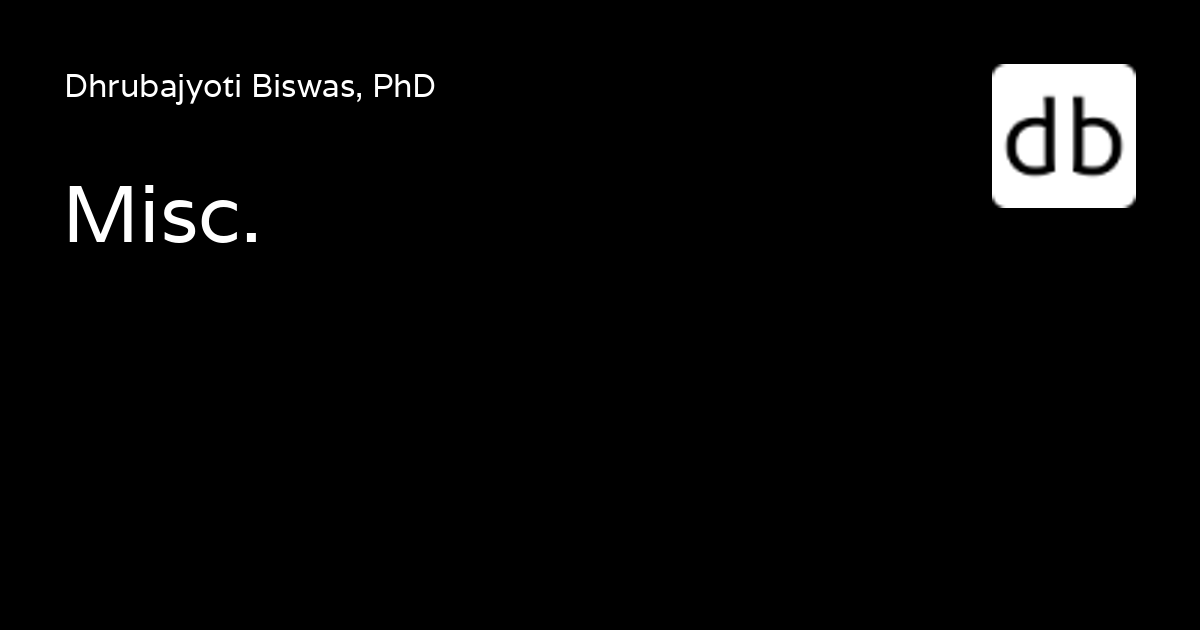
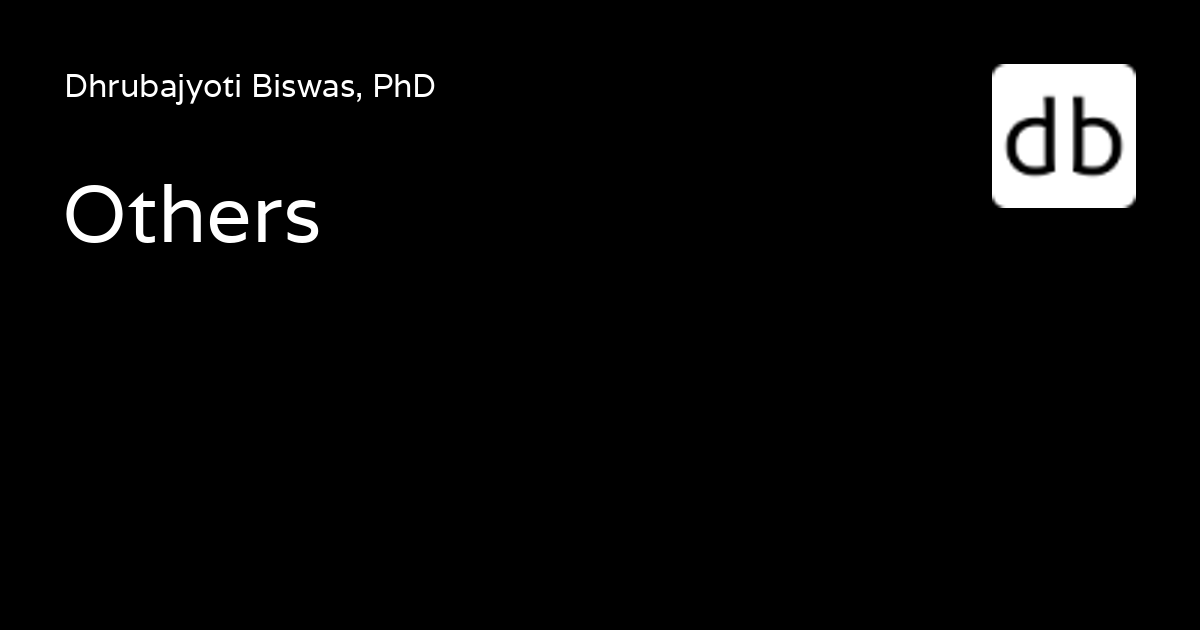
Some changes to website

Changed region(s): [[0.0617, 0.2714, 0.2775, 0.3921]]

diff --git a/site/misc/index.html b/site/misc/index.html
@@ -23,7 +23,7 @@
     
     
       
-        <title>Misc. - Dhrubajyoti Biswas, PhD</title>
+        <title>Others - Dhrubajyoti Biswas, PhD</title>
       
     
     
@@ -57,14 +57,14 @@
     
   
 <meta property="og:type" content="website" />
-<meta property="og:title" content="Misc. - Dhrubajyoti Biswas, PhD" />
+<meta property="og:title" content="Others - Dhrubajyoti Biswas, PhD" />
 <meta property="og:image" content="https://dhrubajyoti98.github.io/assets/images/social/misc.png" />
 <meta property="og:image:type" content="image/png" />
 <meta property="og:image:width" content="1200" />
 <meta property="og:image:height" content="630" />
 <meta property="og:url" content="https://dhrubajyoti98.github.io/misc/" />
 <meta property="twitter:card" content="summary_large_image" />
-<meta property="twitter:title" content="Misc. - Dhrubajyoti Biswas, PhD" />
+<meta property="twitter:title" content="Others - Dhrubajyoti Biswas, PhD" />
 <meta property="twitter:image" content="https://dhrubajyoti98.github.io/assets/images/social/misc.png" />
 </head>
   
@@ -113,7 +113,7 @@
         <div class="md-header__topic" data-md-component="header-topic">
           <span class="md-ellipsis">
             
-              Misc.
+              Others
             
           </span>
         </div>
@@ -263,7 +263,7 @@
   <span class="md-ellipsis">
     
   
-    Misc.
+    Others
   
 
     
@@ -310,7 +310,7 @@
 
 
 
-<h1 id="misc">Misc.</h1>
+<h1 id="others">Others</h1>
 <h4 id="awards-grants">Awards &amp; Grants</h4>
 <ul align="justify" style="font-size:14px">
 <li>Travel grant (500 Euros) to attend QSYNC25.

diff --git a/site/404.html b/site/404.html
@@ -241,7 +241,7 @@
   <span class="md-ellipsis">
     
   
-    Misc.
+    Others
   
 
     

diff --git a/site/PhD/index.html b/site/PhD/index.html
@@ -254,7 +254,7 @@
   <span class="md-ellipsis">
     
   
-    Misc.
+    Others
   
 
     

diff --git a/site/group/index.html b/site/group/index.html
@@ -254,7 +254,7 @@
   <span class="md-ellipsis">
     
   
-    Misc.
+    Others
   
 
     

diff --git a/site/index.html b/site/index.html
@@ -264,7 +264,7 @@
   <span class="md-ellipsis">
     
   
-    Misc.
+    Others
   
 
     

diff --git a/site/research/index.html b/site/research/index.html
@@ -266,7 +266,7 @@
   <span class="md-ellipsis">
     
   
-    Misc.
+    Others
   
 
     

diff --git a/site/teaching/index.html b/site/teaching/index.html
@@ -266,7 +266,7 @@
   <span class="md-ellipsis">
     
   
-    Misc.
+    Others
   
 
     

diff --git a/docs/misc.md b/docs/misc.md
@@ -1,4 +1,4 @@
-# Misc.
+# Others
 
 #### Awards & Grants
 <ul align="justify" style="font-size:14px">
